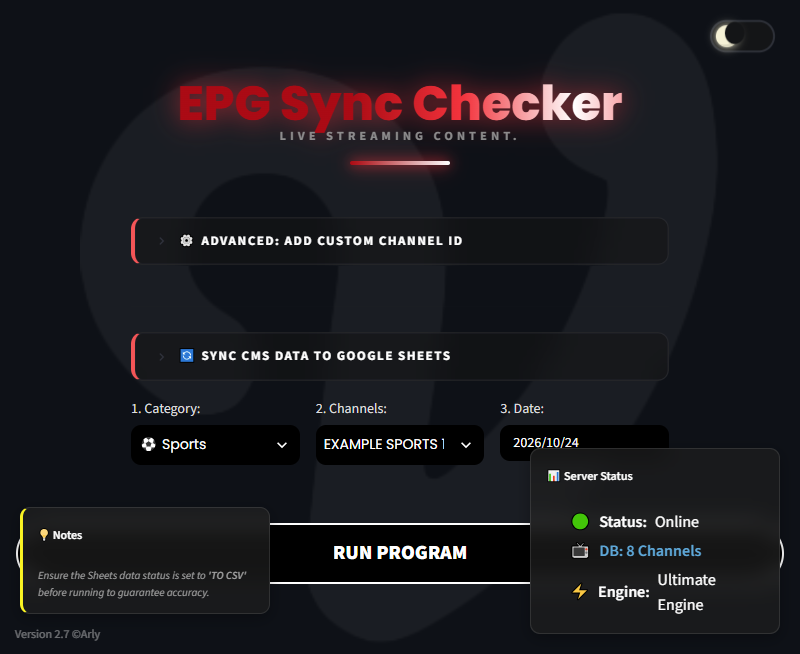
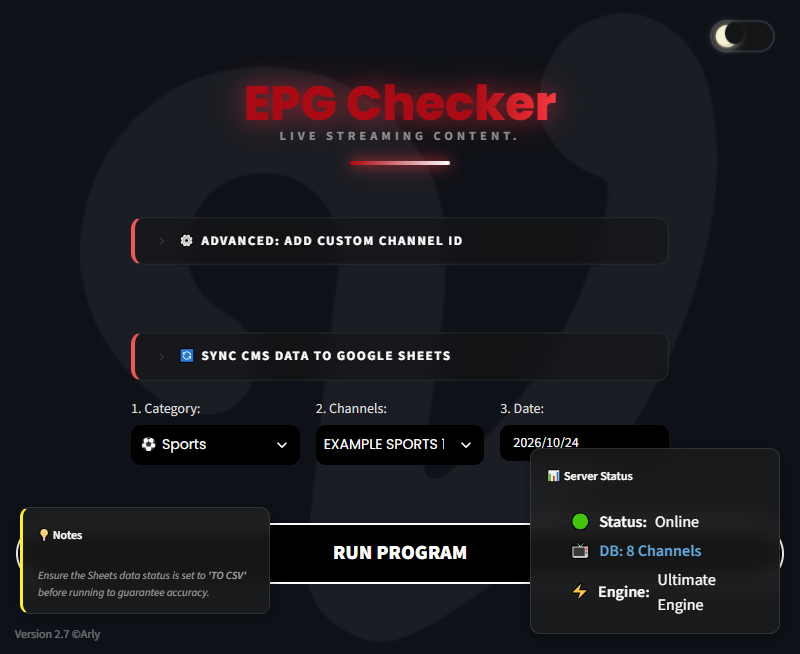
Rename to EPG Checker, translate README to Indonesian, drop unused dispatcher mentions

Changed region(s): [[0.2188, 0.0917, 0.7812, 0.2141]]

diff --git a/daily_generator.py b/daily_generator.py
@@ -67,9 +67,9 @@ def sync_channel_callback():
 # =======================================================
 try:
     favicon_img = Image.open("logo_v.jpeg")
-    st.set_page_config(page_title="EPG Sync Checker", page_icon=favicon_img, layout="wide", initial_sidebar_state="collapsed")
+    st.set_page_config(page_title="EPG Checker", page_icon=favicon_img, layout="wide", initial_sidebar_state="collapsed")
 except:
-    st.set_page_config(page_title="EPG Sync Checker", page_icon="📺", layout="wide", initial_sidebar_state="collapsed")
+    st.set_page_config(page_title="EPG Checker", page_icon="📺", layout="wide", initial_sidebar_state="collapsed")
 
 def get_base64_image(image_path):
     try:
@@ -596,7 +596,7 @@ body.dark-theme .total-channels-label {{
                     <animate attributeName="x2" values="0%;200%" dur="4s" repeatCount="indefinite" />
                 </linearGradient>
             </defs>
-            <text x="50%" y="45" dominant-baseline="middle" text-anchor="middle" font-family="'Poppins', sans-serif" font-size="50" font-weight="800" fill="url(#laser-dark-glow)" style="filter: drop-shadow(0px 0px 14px rgba(255,46,53,0.65));">EPG Sync Checker</text>
+            <text x="50%" y="45" dominant-baseline="middle" text-anchor="middle" font-family="'Poppins', sans-serif" font-size="50" font-weight="800" fill="url(#laser-dark-glow)" style="filter: drop-shadow(0px 0px 14px rgba(255,46,53,0.65));">EPG Checker</text>
         </svg>
     </div>
     <div class="hero-light-header">
@@ -612,7 +612,7 @@ body.dark-theme .total-channels-label {{
                     <animate attributeName="x2" values="0%;200%" dur="4s" repeatCount="indefinite" />
                 </linearGradient>
             </defs>
-            <text x="50%" y="45" dominant-baseline="middle" text-anchor="middle" font-family="'Poppins', sans-serif" font-size="50" font-weight="800" fill="url(#laser-light-glow)" style="filter: drop-shadow(0px 2px 4px rgba(204,9,20,0.15));">EPG Sync Checker</text>
+            <text x="50%" y="45" dominant-baseline="middle" text-anchor="middle" font-family="'Poppins', sans-serif" font-size="50" font-weight="800" fill="url(#laser-light-glow)" style="filter: drop-shadow(0px 2px 4px rgba(204,9,20,0.15));">EPG Checker</text>
         </svg>
     </div>
     <span class="hero-subtitle">Live Streaming Content.</span>

diff --git a/README.md b/README.md
@@ -1,169 +1,167 @@
-# 📺 EPG Sync Checker
+# 📺 EPG Checker
 
 [![Python](https://img.shields.io/badge/Python-3.10%2B-blue?logo=python&logoColor=white)](https://www.python.org/)
 [![Streamlit](https://img.shields.io/badge/Streamlit-Dashboard-FF4B4B?logo=streamlit&logoColor=white)](https://streamlit.io/)
 [![Selenium](https://img.shields.io/badge/Selenium-Automation-yellow)](https://www.selenium.dev/)
 [![Pandas](https://img.shields.io/badge/pandas-Data%20Processing-150458?logo=pandas&logoColor=white)](https://pandas.pydata.org/)
 
-**Internal-grade quality assurance tooling for live-streaming TV schedules (EPG).**
-A Streamlit dashboard + headless-browser automation that verifies, validates, and
-synchronizes the Electronic Program Guide (EPG) of a live-streaming platform
-against its broadcast CMS — every single day, automatically.
+**Alat quality assurance untuk jadwal siaran TV live-streaming.**
+Dashboard Streamlit + otomasi browser headless yang memverifikasi, memvalidasi, dan
+mensinkronkan Electronic Program Guide (EPG) sebuah platform live-streaming
+dengan CMS siarannya — setiap hari, secara otomatis.
 
-> 🧪 **This is a sanitized showcase version.** All company data (spreadsheet IDs,
-> CMS endpoints, channel catalogs, session cookies, service-account keys, and
-> webhook URLs) has been replaced with placeholders or sample data.
+> 🧪 **Ini adalah versi showcase yang sudah disanitasi.** Semua data perusahaan
+> (ID spreadsheet, endpoint CMS, katalog channel, cookie session, kunci
+> service account, dan URL webhook) sudah diganti dengan placeholder atau data contoh.
 
 ---
 
-## 🎯 The Problem
+## 🎯 Masalah yang Dipecahkan
 
-A live-streaming platform publishes dozens of linear (24/7) TV channels. Every day,
-the editorial team schedules hundreds of programs in a Google Sheets EPG, which then
-gets pushed to the public website and the internal broadcast CMS.
+Sebuah platform live-streaming menyiarkan puluhan channel TV linear (24/7). Setiap
+hari, tim editorial menjadwalkan ratusan program di Google Sheets (EPG), yang lalu
+dipublish ke website publik dan CMS internal.
 
-When the EPG and the CMS drift apart, viewers see:
-- ❌ Black screen / dead air during gaps in the schedule
-- ❌ The wrong program at the wrong time
-- ❌ Programs that never air at all
+Ketika EPG dan CMS tidak sinkron, penonton melihat:
+- ❌ Layar mati / dead air karena ada celah jadwal
+- ❌ Program yang salah di jam yang salah
+- ❌ Program yang tidak pernah tayang sama sekali
 
-Checking this **manually across ~40 channels × 2 days** was a slow, error-prone,
-daily chore. This tool automates it end-to-end.
+Pengecekan **manual untuk ~40 channel × 2 hari** adalah pekerjaan lambat dan rawan
+salah, setiap hari. Tool ini mengotomasikannya dari ujung ke ujung.
 
-## ✨ Features
+## ✨ Fitur Utama
 
-| Feature | Description |
+| Fitur | Deskripsi |
 | --- | --- |
-| 🔍 **Automated EPG Verification** | Cross-checks spreadsheet schedules against the live website + CMS for *today* and *tomorrow*. |
-| ⏱ **Gap Detector Engine** | Flags every hole between two consecutive programs, including a 1-minute tolerance rule. |
-| 🌙 **End-of-Day Coverage Check** | Detects schedules that don't reach midnight (`23:59` / cross-midnight), a classic cause of dead air. |
-| 🧠 **Fuzzy Title Matching** | Normalization pipeline (accents, quotes, dashes, casing) + keyword intersection, so "FA Cup: Man Utd vs Liverpool" still matches "FA Cup Man Utd VS Liverpool Live". |
-| 🟡 **Manual Revision Classifier** | Uses an overlap-scoring algorithm with a duration-penalty formula to distinguish *adjusted* programs from *replaced* ones. |
-| 🔄 **Safe Sheet Sync** | Paste the CMS table → the app replaces only the target date's rows and re-uploads, never touching other dates. |
-| 📦 **Custom Channel Manager** | Add new channels + Live Stream IDs from the UI; stored in a local JSON database. |
-| 🤖 **Headless Automation** | Selenium (Firefox/Chrome, headless) with smart scrolling, date-tab clicking, "show more" expansion, and auto-retry on network lag. |
-| 🚨 **Daily Alert Bot** | A scheduled dispatcher that checks every channel and pushes a report to Google Chat via webhook. |
-| 🎨 **Modern UI** | Custom CSS, dark/light theme toggle, glassmorphism panels, loading animations. |
+| 🔍 **Verifikasi EPG Otomatis** | Mencocokkan jadwal spreadsheet dengan website publik + CMS untuk *hari ini* dan *besok*. |
+| ⏱ **Gap Detector Engine** | Menandai setiap celah antar dua program berurutan, termasuk aturan toleransi 1 menit. |
+| 🌙 **Cek Cakupan Akhir Hari** | Mendeteksi jadwal yang tidak sampai tengah malam (`23:59` / lintas tengah malam) — penyebab dead air klasik. |
+| 🧠 **Fuzzy Title Matching** | Pipeline normalisasi (tanda baca, petik, strip, huruf besar/kecil) + irisan kata kunci, sehingga judul berbeda format tetap cocok. |
+| 🟡 **Klasifikasi Revisi Manual** | Algoritma skor overlap dengan rumus penalti durasi untuk membedakan program yang *disesuaikan* vs *diganti*. |
+| 🔄 **Sync Sheet yang Aman** | Paste tabel CMS → aplikasi hanya mengganti baris tanggal target, tidak pernah menyentuh tanggal lain. |
+| 📦 **Manajer Channel Kustom** | Tambah channel baru + Live Stream ID langsung dari UI; tersimpan di database JSON lokal. |
+| 🤖 **Otomasi Headless** | Selenium (Firefox/Chrome, headless) dengan auto-scroll, klik tab tanggal, ekspansi "show more", dan auto-retry saat jaringan lambat. |
+| 🎨 **UI Modern** | CSS kustom, toggle tema gelap/terang, panel glassmorphism, animasi loading. |
 
-## 🖼 Screenshots
+## 🖼 Screenshot
 
-| Dashboard (Dark Mode) | Verification Report |
+| Dashboard (Mode Gelap) | Laporan Verifikasi |
 | :---: | :---: |
-| ![Dashboard](assets/dashboard.png) | ![Verification Report](assets/verification-report.png) |
+| ![Dashboard](assets/dashboard.png) | ![Laporan Verifikasi](assets/verification-report.png) |
 
-> Running the app without credentials automatically activates **Demo Mode** with a
-> built-in sample schedule — everything you see above is reproducible in seconds.
+> Menjalankan aplikasi tanpa credential otomatis mengaktifkan **Mode Demo** dengan
+> jadwal contoh bawaan — semua yang tampil di atas bisa direproduksi dalam hitungan detik.
 
-## 🏗 Architecture
+## 🏗 Arsitektur
 
 ```
 ┌─────────────────────┐      ┌──────────────────────┐
-│   Google Sheets     │      │  Live Website + CMS  │
-│  (EPG source of     │      │  (what viewers see)  │
-│   truth, per-       │      │                      │
-│   channel tabs)     │      └──────────┬───────────┘
-└──────────┬──────────┘                 │
-           │  gspread API               │  Selenium (headless browser)
+│   Google Sheets     │      │  Website Publik +    │
+│  (sumber kebenaran  │      │  CMS (yang dilihat   │
+│   EPG, per-tab per  │      │   penonton)          │
+│   channel)          │      │                      │
+└──────────┬──────────┘      └──────────┬───────────┘
+           │  gspread API               │  Selenium (browser headless)
            ▼                            ▼
 ┌──────────────────────────────────────────────────┐
 │                 CORE ENGINE (pandas)             │
-│  • Column & date normalization                   │
+│  • Normalisasi kolom & tanggal                   │
 │  • Gap detector                                  │
-│  • End-of-day coverage check                     │
-│  • Fuzzy title matching (fuzzy + time tolerance) │
-│  • Overlap scoring (duration-penalty formula)    │
+│  • Cek cakupan akhir hari                        │
+│  • Fuzzy title matching                          │
+│  • Skor overlap (rumus penalti durasi)           │
 └──────────────────────┬───────────────────────────┘
                        │
-        ┌──────────────┴───────────────┐
-        ▼                              ▼
-┌───────────────────┐        ┌─────────────────────┐
-│  Streamlit UI     │        │  Scheduler / Cron   │
-│  (on-demand       │        │  → Google Chat      │
-│   verification)   │        │    webhook alerts   │
-└───────────────────┘        └─────────────────────┘
+                       ▼
+              ┌───────────────────┐
+              │    Streamlit UI   │
+              │  (verifikasi on-  │
+              │       demand)     │
+              └───────────────────┘
 ```
 
-**Two entry points share the same validation logic:**
+Aplikasi utama adalah **`daily_generator.py`** — satu file yang berisi seluruh alur:
+baca EPG dari Google Sheets → jalankan validasi → ambil data website & CMS via
+Selenium → tampilkan laporan di dashboard.
 
-| File | Role |
-| --- | --- |
-| `daily_generator.py` | Interactive Streamlit dashboard (verify a channel, sync CMS data back to Sheets). The main application. |
-| `automation/epg_dispatcher.py` | Unattended daily bot — checks *all* channels for today & tomorrow and reports to Google Chat. |
+## 🚀 Cara Menjalankan
 
-## 🚀 Quick Start
-
-### 1. Install dependencies
+### 1. Install dependensi
 
 ```bash
-git clone https://github.com/rlyxyz/epg-sync-checker.git
-cd epg-sync-checker
+git clone https://github.com/Arlyanto/epg-checker.git
+cd epg-checker
 pip install -r requirements.txt
 ```
 
-### 2. Run in Demo Mode (no setup needed) 🎉
+### 2. Jalankan Mode Demo (tanpa setup apa pun) 🎉
 
 ```bash
 streamlit run daily_generator.py
 ```
 
-Without credentials, the app automatically runs in **Demo Mode** using a built-in
-sample schedule so you can explore every part of the UI and the validation engine.
+Tanpa credential, aplikasi otomatis berjalan dalam **Mode Demo** memakai jadwal
+contoh bawaan, jadi kamu bisa langsung menjelajahi seluruh UI dan mesin validasinya.
 
-### 3. Connect your real data
+Di Windows juga tersedia launcher sekali klik: **`Mulai_EPG_Checker.bat`**.
 
-| Secret | Where to put it | Notes |
+### 3. Hubungkan dengan data asli
+
+| Rahasia | Letak | Catatan |
 | --- | --- | --- |
-| Google Sheets service account | `credentials.json` (repo root) **or** `.streamlit/secrets.toml` under `[gcp_service_account]` | Share your spreadsheets with the service-account email. |
-| Spreadsheet URLs | `URL_SPORT` / `URL_NON_SPORT` constants in `daily_generator.py` | One spreadsheet per category, one tab per channel. |
-| Session cookie | `cookies.json` → `{"cookie_string": "..."}` | Needed for the CMS section of the dashboard. |
-| Webhook URL | `GOOGLE_CHAT_WEBHOOK` environment variable | Used by the alert bot (never hardcode it). |
+| Google Sheets service account | `credentials.json` (root repo) **atau** `.streamlit/secrets.toml` di bawah `[gcp_service_account]` | Share spreadsheet ke email service account-nya. |
+| URL Spreadsheet | Konstanta `URL_SPORT` / `URL_NON_SPORT` di `daily_generator.py` | Satu spreadsheet per kategori, satu tab per channel. |
+| Session cookie CMS | `cookies.json` → `{"cookie_string": "..."}` | Untuk bagian CMS di dashboard. |
 
-> ⚠ All secrets are listed in `.gitignore` — double-check before committing.
+> ⚠ Semua rahasia terdaftar di `.gitignore` — cek ulang sebelum commit.
 
-## 📂 Project Structure
+Untuk menyiapkan sesi login CMS sekali jalan, jalankan `setup_firefox_profile.py`
+(lakukan login manual di Firefox yang terbuka, lalu tekan ENTER).
+
+## 📂 Struktur Proyek
 
 ```
-epg-sync-checker/
-├── daily_generator.py           # Main app — Streamlit dashboard
-├── automation/
-│   └── epg_dispatcher.py        # Scheduled full-catalog checker + Google Chat alerts
-├── Mulai_EPG_Checker.bat        # One-click launcher (Windows)
-├── setup_firefox_profile.py     # One-time CMS login session setup (Firefox)
-├── custom_channels.json         # User-defined channel → live stream ID map
-├── packages.txt                 # System packages (Debian/Ubuntu) for Chromium
+epg-checker/
+├── daily_generator.py           # Aplikasi utama — dashboard Streamlit
+├── Mulai_EPG_Checker.bat        # Launcher sekali klik (Windows)
+├── setup_firefox_profile.py     # Setup sesi login CMS sekali jalan (Firefox)
+├── custom_channels.json         # Peta channel → live stream ID (kustom)
+├── packages.txt                 # Paket sistem (Debian/Ubuntu) untuk Chromium
 ├── requirements.txt
 ├── logo_v.jpeg                  # Favicon
-├── bg_dark.png / bg_light.png   # Theme backgrounds
-├── mata_robot.png               # Design asset
+├── bg_dark.png / bg_light.png   # Background tema
+├── mata_robot.png               # Aset desain
+├── assets/                      # Screenshot untuk README
 └── README.md
 ```
 
-## 📐 Validation Rules
+## 📐 Aturan Validasi
 
-1. **Gap rule** — `end_time(n)` must equal `start_time(n+1)` (or be exactly 1 minute apart). Anything else is a gap.
-2. **Coverage rule** — the last program of the day must end at `00:00`, `23:59`, `24:00`, or cross midnight.
-3. **Fuzzy match rule** — a spreadsheet program matches a CMS/web program when either:
-   - normalized titles are substring-equal, **or**
-   - ≥ 2 significant words intersect (stop-words like *live*, *replay*, *vs* are ignored), **or**
-   - time slots overlap enough to score highest under the duration-penalty formula.
+1. **Aturan gap** — `end_time(n)` harus sama dengan `start_time(n+1)` (atau berjarak tepat 1 menit). Selain itu dianggap celah.
+2. **Aturan cakupan** — program terakhir hari harus berakhir `00:00`, `23:59`, `24:00`, atau lintas tengah malam.
+3. **Aturan fuzzy match** — sebuah program spreadsheet cocok dengan program CMS/website ketika:
+   - judul setelah normalisasi saling substring, **atau**
+   - ≥ 2 kata signifikan beririsan (kata penghenti seperti *live*, *replay*, *vs* diabaikan), **atau**
+   - slot waktu overlap cukup besar untuk jadi skor tertinggi di rumus penalti durasi.
 
-## 📈 Impact
+## 📈 Dampak
 
-- ⏱ **From ~1 hour manual checking to a single click** — or zero clicks with the scheduled bot.
-- 📺 **~40 channels × 2 days** verified automatically per run.
-- 🐛 Dead-air risks (gaps, incomplete coverage, missing CMS entries) are caught **before broadcast**.
-- 📣 Instant **Google Chat alerts** for the whole ops team instead of a manual spreadsheet report.
+- ⏱ **Dari ~1 jam pengecekan manual jadi sekali klik.**
+- 📺 **~40 channel × 2 hari** terverifikasi otomatis setiap kali dijalankan.
+- 🐛 Risiko dead air (gap, cakupan tidak lengkap, entri CMS hilang) tertangkap **sebelum siaran**.
+- 📊 Laporan langsung terbaca di dashboard, tanpa rekap spreadsheet manual.
 
-## 🧰 Tech Stack
+## 🧰 Teknologi
 
 `Python 3` · `Streamlit` · `pandas` · `BeautifulSoup4` · `Selenium` + `webdriver-manager` · `gspread` + `google-auth` · `Pillow`
 
-## ⚖ Disclaimer
+## ⚖ Penafian
 
-This repository is a **portfolio showcase**. Domains, spreadsheet IDs, channel
-catalogs, credentials, and webhook URLs are placeholders. The scraping logic is
-intended for platforms you own or are authorized to test.
+Repositori ini adalah **showcase portofolio**. Domain, ID spreadsheet, katalog
+channel, credential, dan URL webhook semuanya placeholder. Logika scraping
+diperuntukkan bagi platform yang kamu miliki atau berwenang diuji.
 
 ---
 
-Made with ❤ by [rlyxyz](https://github.com/rlyxyz)
+Dibuat dengan ❤ oleh [Arlyanto](https://github.com/Arlyanto)
